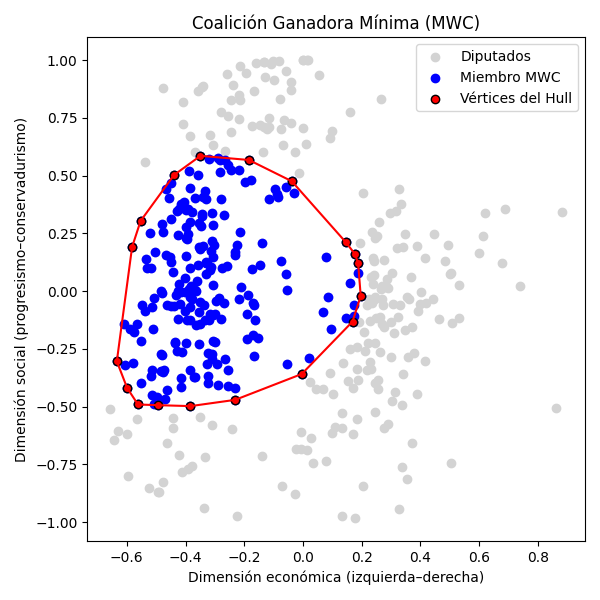
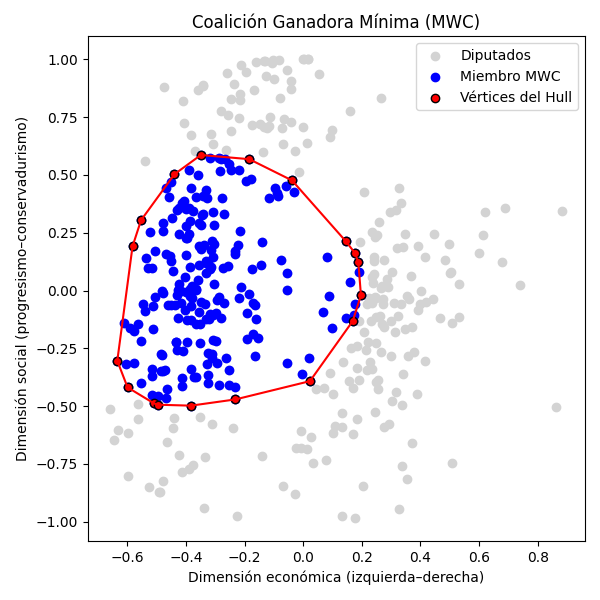
Fix: Se ajusto el archivo Readme

diff --git a/AlgoritmoGenetico.py b/AlgoritmoGenetico.py
@@ -10,7 +10,7 @@ import csv  # Para guardar resultados en archivos CSV
 # Parámetros globales del algoritmo genético
 
 iDiputados = 431  # Número total de diputados
-iQuorum = 217  # Cantidad mínima para formar una coalición válida (mayoría absoluta)
+iQuorum = 216  # Cantidad mínima para formar una coalición válida (mayoría absoluta)
 iPoblacionSize = 38  # Tamaño de la población en cada generación
 iGeneraciones = 10000  # Número máximo de generaciones del algoritmo
 tfProbMutacion = 0.1700019  # Probabilidad de aplicar mutación tipo swap en un cromosoma
@@ -87,7 +87,7 @@ def fnMutarSwapProb(arrCromosoma):
             iEntrar = random.choice(arrNoMiembros)  # Elige un no-miembro al azar para entrar
             arrCromosoma[iSalir] = 0  # Elimina el miembro seleccionado
             arrCromosoma[iEntrar] = 1  # Agrega el nuevo miembro
-    return arrCromosoma  # Devuelve el cromosoma (mutado o no)
+    return arrCromosoma  # Devuelve el cromosoma (mutado o no
 
 # Ciclo principal del algoritmo genético
 def fnAlgoritmoGenetico():

diff --git a/README.md b/README.md
@@ -1,19 +1,55 @@
 # 🧬 Algoritmo Genético para Coalición Ganadora Mínima (CGM)
 
-Este repositorio contiene la implementación en Python de un **algoritmo genético** para encontrar una **Coalición Ganadora Mínima (CGM)** en la Cámara de Representantes de EE.UU., utilizando coordenadas ideológicas **DW-NOMINATE**. El objetivo es minimizar la distancia interna entre los legisladores de una coalición que votaron "Yea" en una moción dada, simulando el enfoque del paper académico base.
+Este repositorio contiene una implementación en **Python** de un **Algoritmo Genético** diseñado para encontrar una **Coalición Ganadora Mínima (MWC)** dentro de la Cámara de Representantes de EE.UU., utilizando información ideológica proveniente de las coordenadas **DW-NOMINATE**.
 
-## 📄 Basado en
-
-Este trabajo replica y adapta el enfoque del artículo:
-
-> *Coalición Ganadora Mínima: Implementación mediante Algoritmo Genético*, 2023  
-> [Referencia completa disponible en el repositorio]
+📌 El objetivo es identificar un subconjunto de **217 legisladores** que:
+- Cumpla con el **quórum necesario** para aprobar una votación.
+- Tenga la **mínima dispersión ideológica interna**, medida por la suma de distancias euclídeas entre todos los miembros.
 
 ---
 
-## ⚙ Requisitos del sistema
+## 📚 Basado en:
 
-Este proyecto requiere **Python 3.8+** y las siguientes bibliotecas:
+> **Coalición Ganadora Mínima: Implementación mediante Algoritmo Genético**, Lincolao-Venegas et al., 2023  
+> *(Artículo académico disponible en este repositorio)*
+
+---
+
+## 📁 Archivos principales
+
+| Archivo                  | Descripción                                                                 |
+|--------------------------|------------------------------------------------------------------------------|
+| `AlgoritmoGenetico.py`   | Script principal con el algoritmo genético.                                 |
+| `VoteData.json`          | Datos de votación con coordenadas DW-NOMINATE de los legisladores.          |
+| `coalicion_mwc.png`      | Gráfico generado que muestra la coalición encontrada en el espacio político.|
+| `MWC_resultados.csv`     | Datos exportados de los miembros de la coalición ganadora.                  |
+
+---
+
+## 📷 Visualización de resultados
+
+A continuación se muestra un ejemplo del gráfico generado automáticamente:
+
+![Coalición Ganadora Mínima](./coalicion_mwc.png)
+
+---
+
+## 📑 Contenido del CSV (`MWC_resultados.csv`)
+
+Este archivo contiene la lista de diputados seleccionados en la CGM, con los siguientes campos:
+
+| idx | name           | party | x       | y       | es_vertice |
+|-----|----------------|-------|---------|---------|-------------|
+| 23  | Smith, John    | DEM   | -0.4321 | 0.2012  | 1           |
+| ... | ...            | ...   | ...     | ...     | ...         |
+
+- `es_vertice = 1` si el diputado está en el borde del *ConvexHull* (polígono ideológico exterior).
+
+---
+
+## 🛠 Requisitos y dependencias
+
+Este proyecto requiere **Python 3.8 o superior** y las siguientes bibliotecas:
 
 ```bash
-pip install numpy pandas matplotlib
+pip install numpy scipy matplotlib
